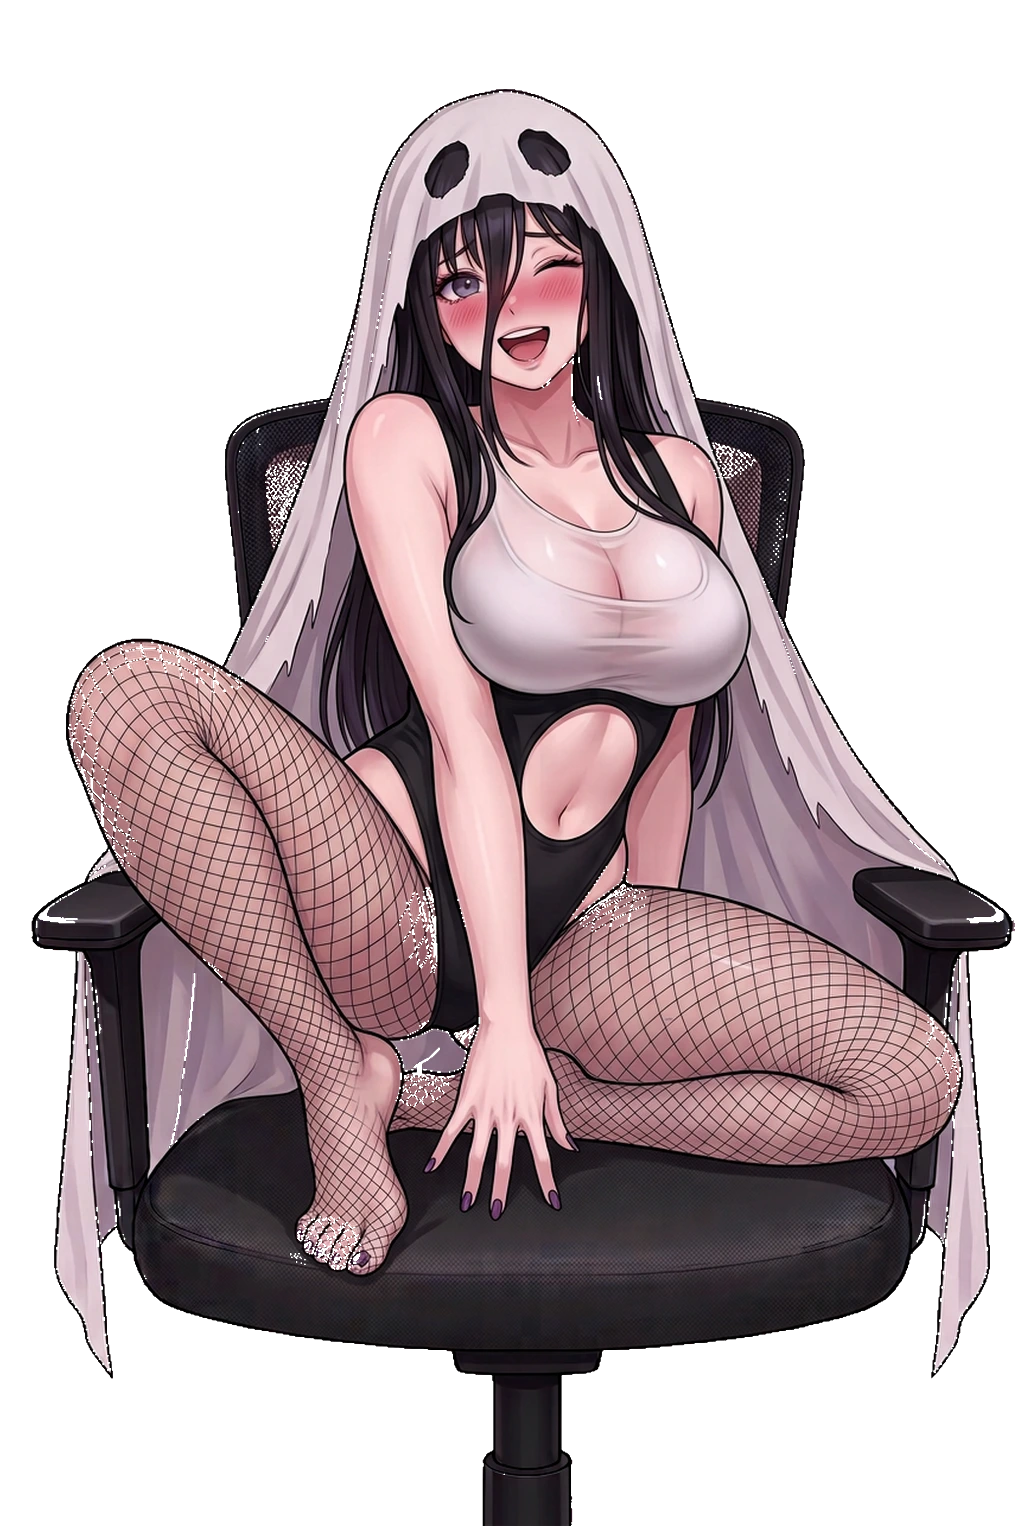
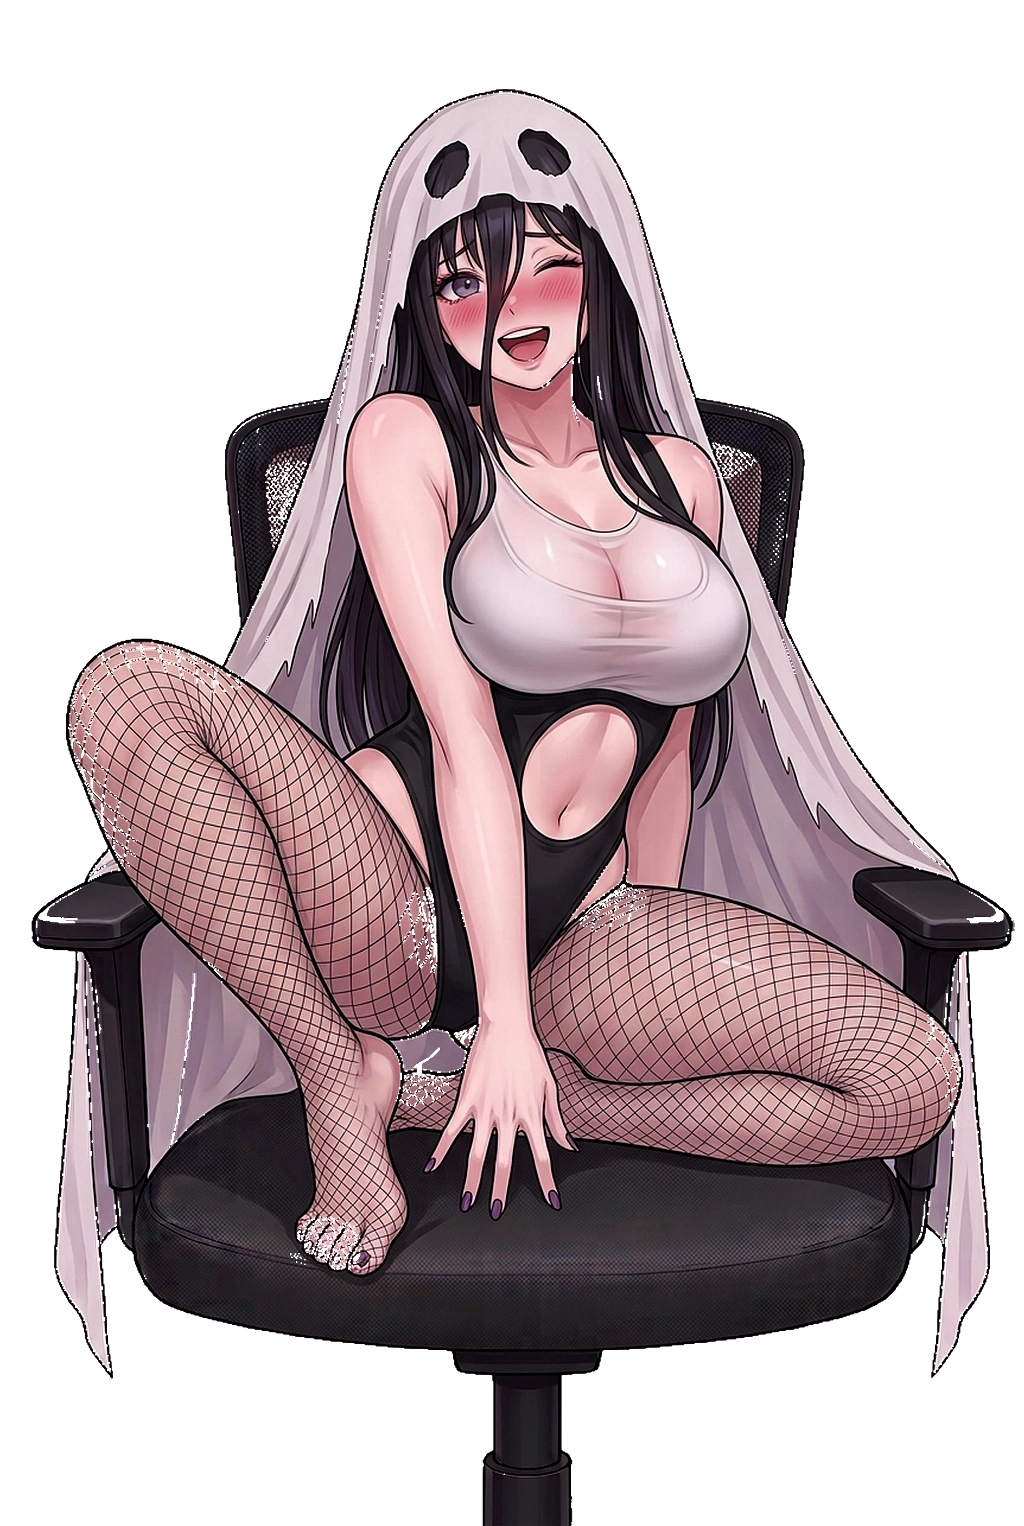
art(day3): rest the s2 sole on the plank, sharpen every plate
The user's one art complaint on Day 3 was the s2 foot: "ножка на столе ... левая нога
ступня криво обрезана, не прячется под стол". Root cause was not the raw and not the
desk — it was our own LEG_STRETCH factor for that stage. The approved raw ends her
silhouette at row 1235 of 1264, which lands on the plank line once mapped into the
plate; stretching the legs 5.5 % pushed the sole through the wood, and the plank's
dead-straight top edge sawed the toes in half.

- SOLE_ON_PLANK replaces the hand-set factor for s2: the last lit-skin row (the toe
  tips, measured >12 px/row, not the wide instep — a fit aimed at the instep is blind
  to exactly the pixels that poke through) is solved onto the plank edge by scaling the
  plate about her head row. Uniform, because elongate_below with a negative factor maps
  the source's last row onto every row under it and smears her foot down the desk.
- The fit runs LAST, after the head re-frame and after the unsharp pass. It ran before
  them once already and the re-frame lifted the foot back off the desk; it ran after the
  fit once already and the unsharp dragged bright skin colour into the shadow band under
  her sole, which is a halo right where the toes meet the wood.
- Sharpen all plates: 0.55 x Gaussian(1.1) unsharp on opaque pixels only, plus webp
  quality 96 / method 6. The 848x1264 raws upscale into 1024x1526 plates and read soft;
  measured edge energy is up ~36-42 % (mean |grad| 8.97 -> 12.41 across s1/s2) with no
[…]

diff --git a/scripts/process_day3_ghost_arts.py b/scripts/process_day3_ghost_arts.py
@@ -61,19 +61,29 @@ FRAMES: dict[str, str] = {
 }
 
 
-# The generator keeps finishing her feet a finger's width short of the canvas bottom, which — once
-# the plank overlaps the plate — reads as floating ("а где ступни на столе?"). Sliding the whole
-# plate down would fix the feet but drop her head 40-80 rows below the row-87 anchor Days 1 and 2
-# share, so every stage would frame her differently. Instead: elongate only BELOW the waist hinge.
-# The head and the chair backrest stay anchored, the soles sink behind the plank, and the side effect
-# is the one the brief asked for anyway — longer legs. (hinge row, factor), tuned per frame from its
-# own measured sole row; both stay small enough that the fishnet mesh never goes rubbery.
+# The plank is a FOREGROUND layer: its top edge is a dead-straight horizontal line, so whatever the
+# plate leaves inside that band gets cut along it. Two failure modes were shipped by hand-tuned
+# numbers, and the second is the one the user just caught:
+#   - sole ends 10s of rows ABOVE the edge  -> "а где ступни на столе?", she floats;
+#   - sole ends 10s of rows BELOW the edge  -> the plank saws the foot across the toes: "криво
+#     обрезана, не прячется под стол".
+# So the frames where the feet belong ON the desk are fitted, not guessed: SOLE_ON_PLANK says which
+# row the lowest skin pixel (the sole resting on the desk) must land on, and the stretch factor below
+# is solved from the frame's own measurement. (hinge, factor) is only the START of that search; the
+# factor is recomputed per run, so re-rendering the art cannot silently re-introduce either failure.
+SOLE_ON_PLANK: dict[str, int] = {
+    # s2, crossed ankles over the plank. Four rows INTO the band the plank hides: her sole presses onto the wood instead of stopping
+    # a hair above it, and nothing above the edge is cut. Aimed at the plank line itself fails by a
+    # few rows in practice because the webp encode attenuates the 15-pixel-wide toe rows, which is
+    # what `day3_plate_qc.py` measures.
+    "heroine_t3_s2": DESK_TOP_ROW + 4,
+}
 LEG_STRETCH: dict[str, tuple[int, float]] = {
-    # s0/s1/s4 are seat poses — their feet never touch the desk, so stretching them would just
-    # lengthen legs for no reason. Only the plank frames need the reach.
-    "heroine_t3_s2": (700, 0.055),
+    # s2 is NOT here: its legs are solved against the plank by SOLE_ON_PLANK, and a hand-set factor is
+    # what cut her toes in half in the first place.
     # the "Бу!" jump and the crossfade flash share one raw — treat them identically or the cut
-    # between them steps her legs by a few pixels.
+    # between them steps her legs by a few pixels. Her feet are tucked up behind the desk here,
+    # which is the pose, so no sole fit: anything under the plank edge just reads as hidden.
     "heroine_t3_s3": (780, 0.05),
     "heroine_t3_flash": (780, 0.05),
 }
@@ -101,6 +111,8 @@ def elongate_below(arr: np.ndarray, hinge: int, extra: float) -> np.ndarray:
     h, w = arr.shape[:2]
     src = np.arange(h, dtype=np.float64)
     dst = np.where(src < hinge, src, hinge + (src - hinge) * (1.0 + extra))
+    # Only ever an elongation: a negative factor maps the last source row onto every row under it,
+    # which smears her foot down the desk. Pulling a sole back up is `scale_about_row`'s job.
     if dst[-1] <= h - 1:
         return arr
     # Inverse map: destination row y samples source row s where dst(s) == y. dst is monotone, so a
@@ -129,6 +141,74 @@ def elongate_below(arr: np.ndarray, hinge: int, extra: float) -> np.ndarray:
 # framed tighter has to come back to the same scale or the stage cut reads as a zoom.
 HEAD_BAND = (87, 122)
 HEAD_TARGET = 88
+
+
+def sole_bottom_row(arr: np.ndarray) -> int:
+    """Lowest lit-skin row on the plate — the sole she rests on the desk.
+
+    Deliberately a LOW pixel threshold (the same measure `day3_plate_qc.py` runs): the toe tips are a
+    dozen pixels wide, and a fit aimed at the wide part of the foot happily leaves the toes poking
+    under the plank, which is the slice this whole function exists to prevent.
+    """
+    al = arr[:, :, 3].astype(np.float32)
+    rr, gg, bb = (arr[:, :, i].astype(np.float32) for i in range(3))
+    skin = (al > 128) & (rr > 195) & (gg > 135) & (bb > 125) & ((rr - bb) > 22)
+    rows = np.nonzero(skin.sum(axis=1) > 12)[0]
+    return int(rows.max()) if rows.size else -1
+
+
+def scale_about_row(arr: np.ndarray, pivot: int, k: float) -> np.ndarray:
+    """Uniformly rescale the plate so row `pivot` stays put — a couple of percent, not a crop.
+
+    Uniform on purpose. `elongate_below` with a NEGATIVE factor (the obvious tool: her foot needs to
+    come back UP off the plank) maps the last source row onto every row under it, which smears her
+    toes into vertical streaks across the desk. A uniform scale about her head keeps the head at the
+    row the rest of the ladder shares, moves the sole where the plank wants it, and costs a pixel or
+    two of side margin on a plate that has some.
+    """
+    h, w = arr.shape[:2]
+    gx = np.arange(w, dtype=np.float32)
+    gy = np.arange(h, dtype=np.float32)
+    map_x, map_y = np.meshgrid((gx - w / 2) / k + w / 2, (gy - pivot) / k + pivot)
+    a = arr[:, :, 3:4].astype(np.float32) / 255.0
+    prem = cv2.remap(arr[:, :, :3].astype(np.float32) * a, map_x, map_y, cv2.INTER_LANCZOS4,
+                     borderMode=cv2.BORDER_CONSTANT, borderValue=0)
+    alpha = cv2.remap(a[:, :, 0], map_x, map_y, cv2.INTER_LANCZOS4,
+                      borderMode=cv2.BORDER_CONSTANT, borderValue=0)
+    alpha = np.clip((alpha * 255.0 - 70.0) * (255.0 / 150.0), 0.0, 255.0)
+    # LANCZOS rings past the last row of content, and hardening turns that ring into opaque colour — a
+    # bright fringe smeared BELOW her foot, which reads as toes bleeding into the desk and (measured)
+    # as 25 phantom skin rows under the plank. Anything sampled from past the source's own bottom edge
+    # is cut, so the silhouette ends where she actually ends.
+    src_bottom = float(np.nonzero((arr[:, :, 3] > 8).sum(axis=1) > 2)[0].max())
+    src_y = (gy - pivot) / k + pivot
+    alpha[src_y > src_bottom + 0.5, :] = 0.0
+    a2 = alpha / 255.0
+    nz = np.where(a2 > 1e-3, a2, 1.0)
+    out = np.empty_like(arr)
+    out[:, :, 3] = alpha.astype(arr.dtype)
+    out[:, :, :3] = np.clip(prem / nz[..., None], 0, 255).astype(arr.dtype)
+    return out
+
+
+def fit_sole_to_plank(arr: np.ndarray, stage: str) -> np.ndarray:
+    """Set the frame's height so her sole lands on `SOLE_ON_PLANK[stage]` and her head stays at 88.
+
+    The map is linear in `k`, so one measurement solves it; the second pass just absorbs the rounding
+    of the resample. `k` is clamped hard: past ~1 % the ladder starts reading as a zoom on that stage.
+    """
+    target = SOLE_ON_PLANK[stage]
+    for _ in range(2):
+        sole = sole_bottom_row(arr)
+        head = int(np.nonzero((arr[:, :, 3] > 8).sum(axis=1) > 2)[0].min())
+        if sole < 0:
+            sys.exit(f"{stage}: no sole found to fit against the plank")
+        if abs(sole - target) <= 1:
+            break
+        k = float(np.clip((target - head) / (sole - head), 0.99, 1.01))
+        arr = scale_about_row(arr, head, k)
+    print(f"  {stage}: sole row {sole_bottom_row(arr)} fitted onto the plank edge ({target})")
+    return arr
 
 
 def fit_head_band(arr: np.ndarray, stage: str) -> np.ndarray:
@@ -344,6 +424,24 @@ def trim_shadow_debris(alpha: np.ndarray, rgb: np.ndarray, bg: np.ndarray) -> tu
 
 
 
+def sharpen(arr: np.ndarray) -> np.ndarray:
+    """Unsharp mask on the plate, on colour only (the alpha edge is already hardened by the keyer).
+
+    Every 848x1264 raw arrives softer than the plate it has to fill, and LANCZOS trades a little more
+    detail for the absence of ringing. One restrained local contrast pass (55 % of a 1.1px blur, and
+    only on opaque pixels so nothing haloed gets baked into the transparent rim) is what makes the
+    lineart read as drawn rather than as resampled. Amount kept low on purpose: this is lineart and
+    a fishnet mesh, and over-crisping them shows up as white edges around every diamond.
+    """
+    rgb = arr[:, :, :3].astype(np.float32)
+    blur = cv2.GaussianBlur(rgb, (0, 0), 1.1)
+    keep = arr[:, :, 3] > 160
+    sharp = np.clip(rgb + 0.55 * (rgb - blur), 0, 255)
+    out = arr.copy()
+    out[:, :, :3] = np.where(keep[:, :, None], sharp, rgb).astype(arr.dtype)
+    return out
+
+
 def to_plate(rgba: Image.Image) -> Image.Image:
     if rgba.size != (PLATE_W, PLATE_H):
         rgba = rgba.resize((PLATE_W, PLATE_H), Image.Resampling.LANCZOS)
@@ -394,6 +492,17 @@ def main() -> None:
         if extra or shift:
             plate = Image.fromarray(arr, "RGBA")
         arr = fit_head_band(np.array(plate), stage)
+        # Sharpen BEFORE the sole fit, never after. The fit scales the plate up a couple of percent,
+        # and an unsharp pass run over the result drags the bright skin colour of the sole down into
+        # the dark shadow band under her foot — a halo exactly where the toes meet the plank edge,
+        # i.e. in the one row the player looks at. Crisp first, place second.
+        arr = sharpen(arr)
+        # ...and the sole fit LAST: every step above moves her relative to the plank, and the first
+        # version of this rule ran before them, so the re-frame lifted her foot back off the desk by
+        # the 6 rows it shrank. The plank edge is the one line in the frame that never moves, so it is
+        # the only sane thing to measure against last.
+        if stage in SOLE_ON_PLANK:
+            arr = fit_sole_to_plank(arr, stage)
         plate = Image.fromarray(arr, "RGBA")
         fg = float((arr[:, :, 3] > 8).mean())
         # Contact check, calibrated against the accepted Day-1/Day-2 plates rather than a guess:
@@ -407,20 +516,37 @@ def main() -> None:
         opaque = al > 200
         low = int(np.nonzero(opaque.sum(axis=1) > 2)[0].max())
         body_low = int(np.nonzero(body.sum(axis=1) > 12)[0].max())
-        skin = (al > 128) & (rr > 195) & (gg > 135) & (bb > 125) & ((rr - bb) > 22)
-        srows = np.nonzero(skin.sum(axis=1) > 12)[0]
-        skin_low = int(srows.max()) if srows.size else -1
+        # ONE measure, the function the fit optimises. The inline copy of it disagreed by 26 rows
+        # because it read the array through different dtypes, and two definitions of "where her foot
+        # ends" in one file is how a foot slips through a gate.
+        skin_low = sole_bottom_row(arr)
         print(
             f"  {stage}: body bottom {body_low}, skin bottom {skin_low}, silhouette bottom {low} "
             f"(plank covers >= {DESK_TOP_ROW})"
         )
-        if stage not in DESK_CONTACT_EXEMPT and body_low < DESK_TOP_ROW - DESK_CONTACT_SLACK:
+        # For a plank frame the contact test is about the SOLE, not about the silhouette bottom: the
+        # foot must sit on the desk edge, which means the last skin row lands within a few pixels of
+        # it. Reaching INTO the hidden band is what sliced her toes in half, so that is a failure too.
+        if stage in SOLE_ON_PLANK:
+            target = SOLE_ON_PLANK[stage]
+            if not (target - 12 <= skin_low <= target + 8):
+                raise SystemExit(
+                    f"{stage}: the sole bottoms out at row {skin_low}, {abs(skin_low - target)} rows off "
+                    f"the plank edge ({target}) — a foot that floats reads as missing, a foot that dips "
+                    "gets sawn in half by the desk edge. Re-run the fit or move SOLE_ON_PLANK."
+                )
+        elif stage not in DESK_CONTACT_EXEMPT and body_low < DESK_TOP_ROW - DESK_CONTACT_SLACK:
             raise SystemExit(
                 f"{stage}: her body bottoms out at row {body_low}, {DESK_TOP_ROW - body_low} rows above "
                 f"the plank line ({DESK_TOP_ROW}) — the feet read as floating over the chair. Lengthen "
                 "the legs in LEG_STRETCH or re-frame the raw with the soles at the bottom edge."
             )
-        if low < PLATE_H - 6:
+        # The flush-bottom rule exists because a transparent band UNDER her reads as hovering. A
+        # sole resting on the plank is the opposite case: the plank's own top edge (row 1489) covers
+        # everything below it, so ending the silhouette there is correct, and padding it further down
+        # only smears the last row into the desk area. Ask for either, never both.
+        rests_on_plank = stage in SOLE_ON_PLANK and low >= DESK_TOP_ROW - 4
+        if low < PLATE_H - 6 and not rests_on_plank:
             raise SystemExit(
                 f"{stage}: the silhouette stops at row {low}, leaving a transparent band at the bottom "
                 "of the plate — that gap is what makes her look like she is hovering."
@@ -428,7 +554,9 @@ def main() -> None:
         # Only now, with the plate proven, does it land in public/art — a rejected frame must never
         # be shippable by accident.
         plate.save(PLATES / f"{stage}.png")
-        plate.save(PLATES / f"{stage}.webp", "WEBP", quality=92)
+        # method=6 is the slowest (best) webp search; on flat cel colour it buys real edge quality for
+        # a few seconds of build time, which is the whole point of shipping the plate as webp.
+        plate.save(PLATES / f"{stage}.webp", "WEBP", quality=96, method=6)
         print(
             f"{stage}: {src.name} bg={tuple(int(v) for v in bg.round(0))} alpha kept {keep:.3f} "
             f"coverage {fg:.3f} stray-rule px {erased} debris px {debris}"

diff --git a/scripts/day3_plate_qc.py b/scripts/day3_plate_qc.py
@@ -6,7 +6,11 @@ pointed at, so it is measured instead of remembered:
 
   cloth-cut   bright cloth pixels sitting ON the plate border. A sheet that runs off the raw ends as a
               straight vertical slice in mid-air once keyed — the "простыня обрезана" complaint.
-  desk        her lowest body row vs the plank line (1489) + the 12 px margin that reads as contact.
+  desk        how she meets the plank line (1489). A plank frame is legal in exactly two ways: her
+              body SINKS past the edge (the desk hides the contact), or her sole RESTS on it (the last
+              skin row lands within a few pixels of the edge). Anything in between is a slice: the
+              plank's dead-straight top edge saws whatever crosses it — a foot cut across the toes is
+              exactly what the user rejected once already.
               "ступни на столе" is a pixel rule, not a feeling.
   framing     the top row of her head: Days 1 and 2 sit at 87-89, and a plate that lands lower reads
               as a different camera, which is how a stage cut looks broken.
@@ -37,6 +41,8 @@ ART = ROOT / "public/art"
 PLANK, MARGIN = 1489, 12
 HEAD_BAND = (87, 122)
 DAY3 = ["heroine_t3_s0", "heroine_t3_s1", "heroine_t3_s2", "heroine_t3_s3", "heroine_t3_s4", "heroine_t3_flash"]
+# Frames whose feet are drawn ON the plank: sole-on-edge is the correct read (mirrors SOLE_ON_PLANK).
+REST_ON_PLANK = {"heroine_t3_s2"}
 # Seat poses: her feet belong on the chair cushion, never on the plank (mirrors DESK_CONTACT_EXEMPT in
 # scripts/process_day3_ghost_arts.py — keep the two in sync when a pose changes).
 DESK_EXEMPT = {"heroine_t3_s0", "heroine_t3_s1", "heroine_t3_s4"}
@@ -66,11 +72,16 @@ def measure(img: np.ndarray) -> dict | None:
     bright = (a > 200) & (lum > 150) & (sat < 46)
     body = (a > 200) & (lum > 70)
     brows = np.where(body.sum(1) > 12)[0]
+    # the sole: the lowest row that is wide, lit skin. In a plank frame that is the pixel row the desk
+    # edge must meet, and it is the row the plate builder fits against (same measure, same tolerance).
+    skin = (a > 128) & (r > 195) & (g > 135) & (b > 125) & ((r - b) > 22)
+    srows = np.where(skin.sum(1) > 12)[0]
     cnts, _ = cv2.findContours((a > 128).astype(np.uint8), cv2.RETR_EXTERNAL, cv2.CHAIN_APPROX_NONE)
     contour = sum(cv2.arcLength(c, True) for c in cnts)
     return dict(
         cut=int(bright[:, :3].sum() + bright[:, -3:].sum()),
         body_low=int(brows.max()) if brows.size else -1,
+        sole_low=int(srows.max()) if srows.size else -1,
         head=int(ys.min()),
         soft=round(float(((a > 10) & (a < 245)).sum()) / max(1.0, contour), 3),
         lum=round(float(lum[op].mean()), 1),
@@ -97,15 +108,32 @@ def main() -> int:
             fails.append(f"{name}: no readable plate")
             continue
         day3 = name in DAY3
+        sole = m.get("sole_low", -1)
+        # 16 rows, not 10: this measures the LOSSY webp the game loads, and the thin lit rows of the
+        # toe tips (15 px wide) lose a few rows to the encode. The builder fits the lossless PNG.
+        rests = name in REST_ON_PLANK and PLANK - 16 <= sole <= PLANK + 10
         desk = (
             "n/a"
             if not day3
             else "seat"
             if name in DESK_EXEMPT
+            else "rest"
+            if rests
+            else "SLICE"
+            if name in REST_ON_PLANK
             else ("ok" if m["body_low"] >= PLANK + MARGIN else "FLOAT")
         )
-        if day3 and desk == "FLOAT":
-            fails.append(f"{name}: her body stops at row {m['body_low']}, {PLANK - m['body_low']} rows above the plank")
+        if day3 and desk == "FLOAT" and name not in REST_ON_PLANK:
+            fails.append(
+                f"{name}: her body stops at row {m['body_low']}, {PLANK - m['body_low']} rows above the "
+                "plank — sink it past the edge or rest the sole on it (see REST_ON_PLANK)"
+            )
+        if day3 and name in REST_ON_PLANK and not rests:
+            fails.append(
+                f"{name}: the sole ends at row {sole}, {abs(sole - PLANK)} rows off the plank edge "
+                f"({PLANK}) — a foot that floats reads as missing, one that reaches further into the "
+                "hidden band gets sawn in half by the desk edge. Fix it in SOLE_ON_PLANK."
+            )
         if day3 and m["cut"] > 0 and name not in KNOWN_CUT:
             fails.append(f"{name}: {m['cut']} px of cloth touch the plate edge — the cut will show as a straight slice")
         if day3 and not HEAD_BAND[0] <= m["head"] <= HEAD_BAND[1]:
